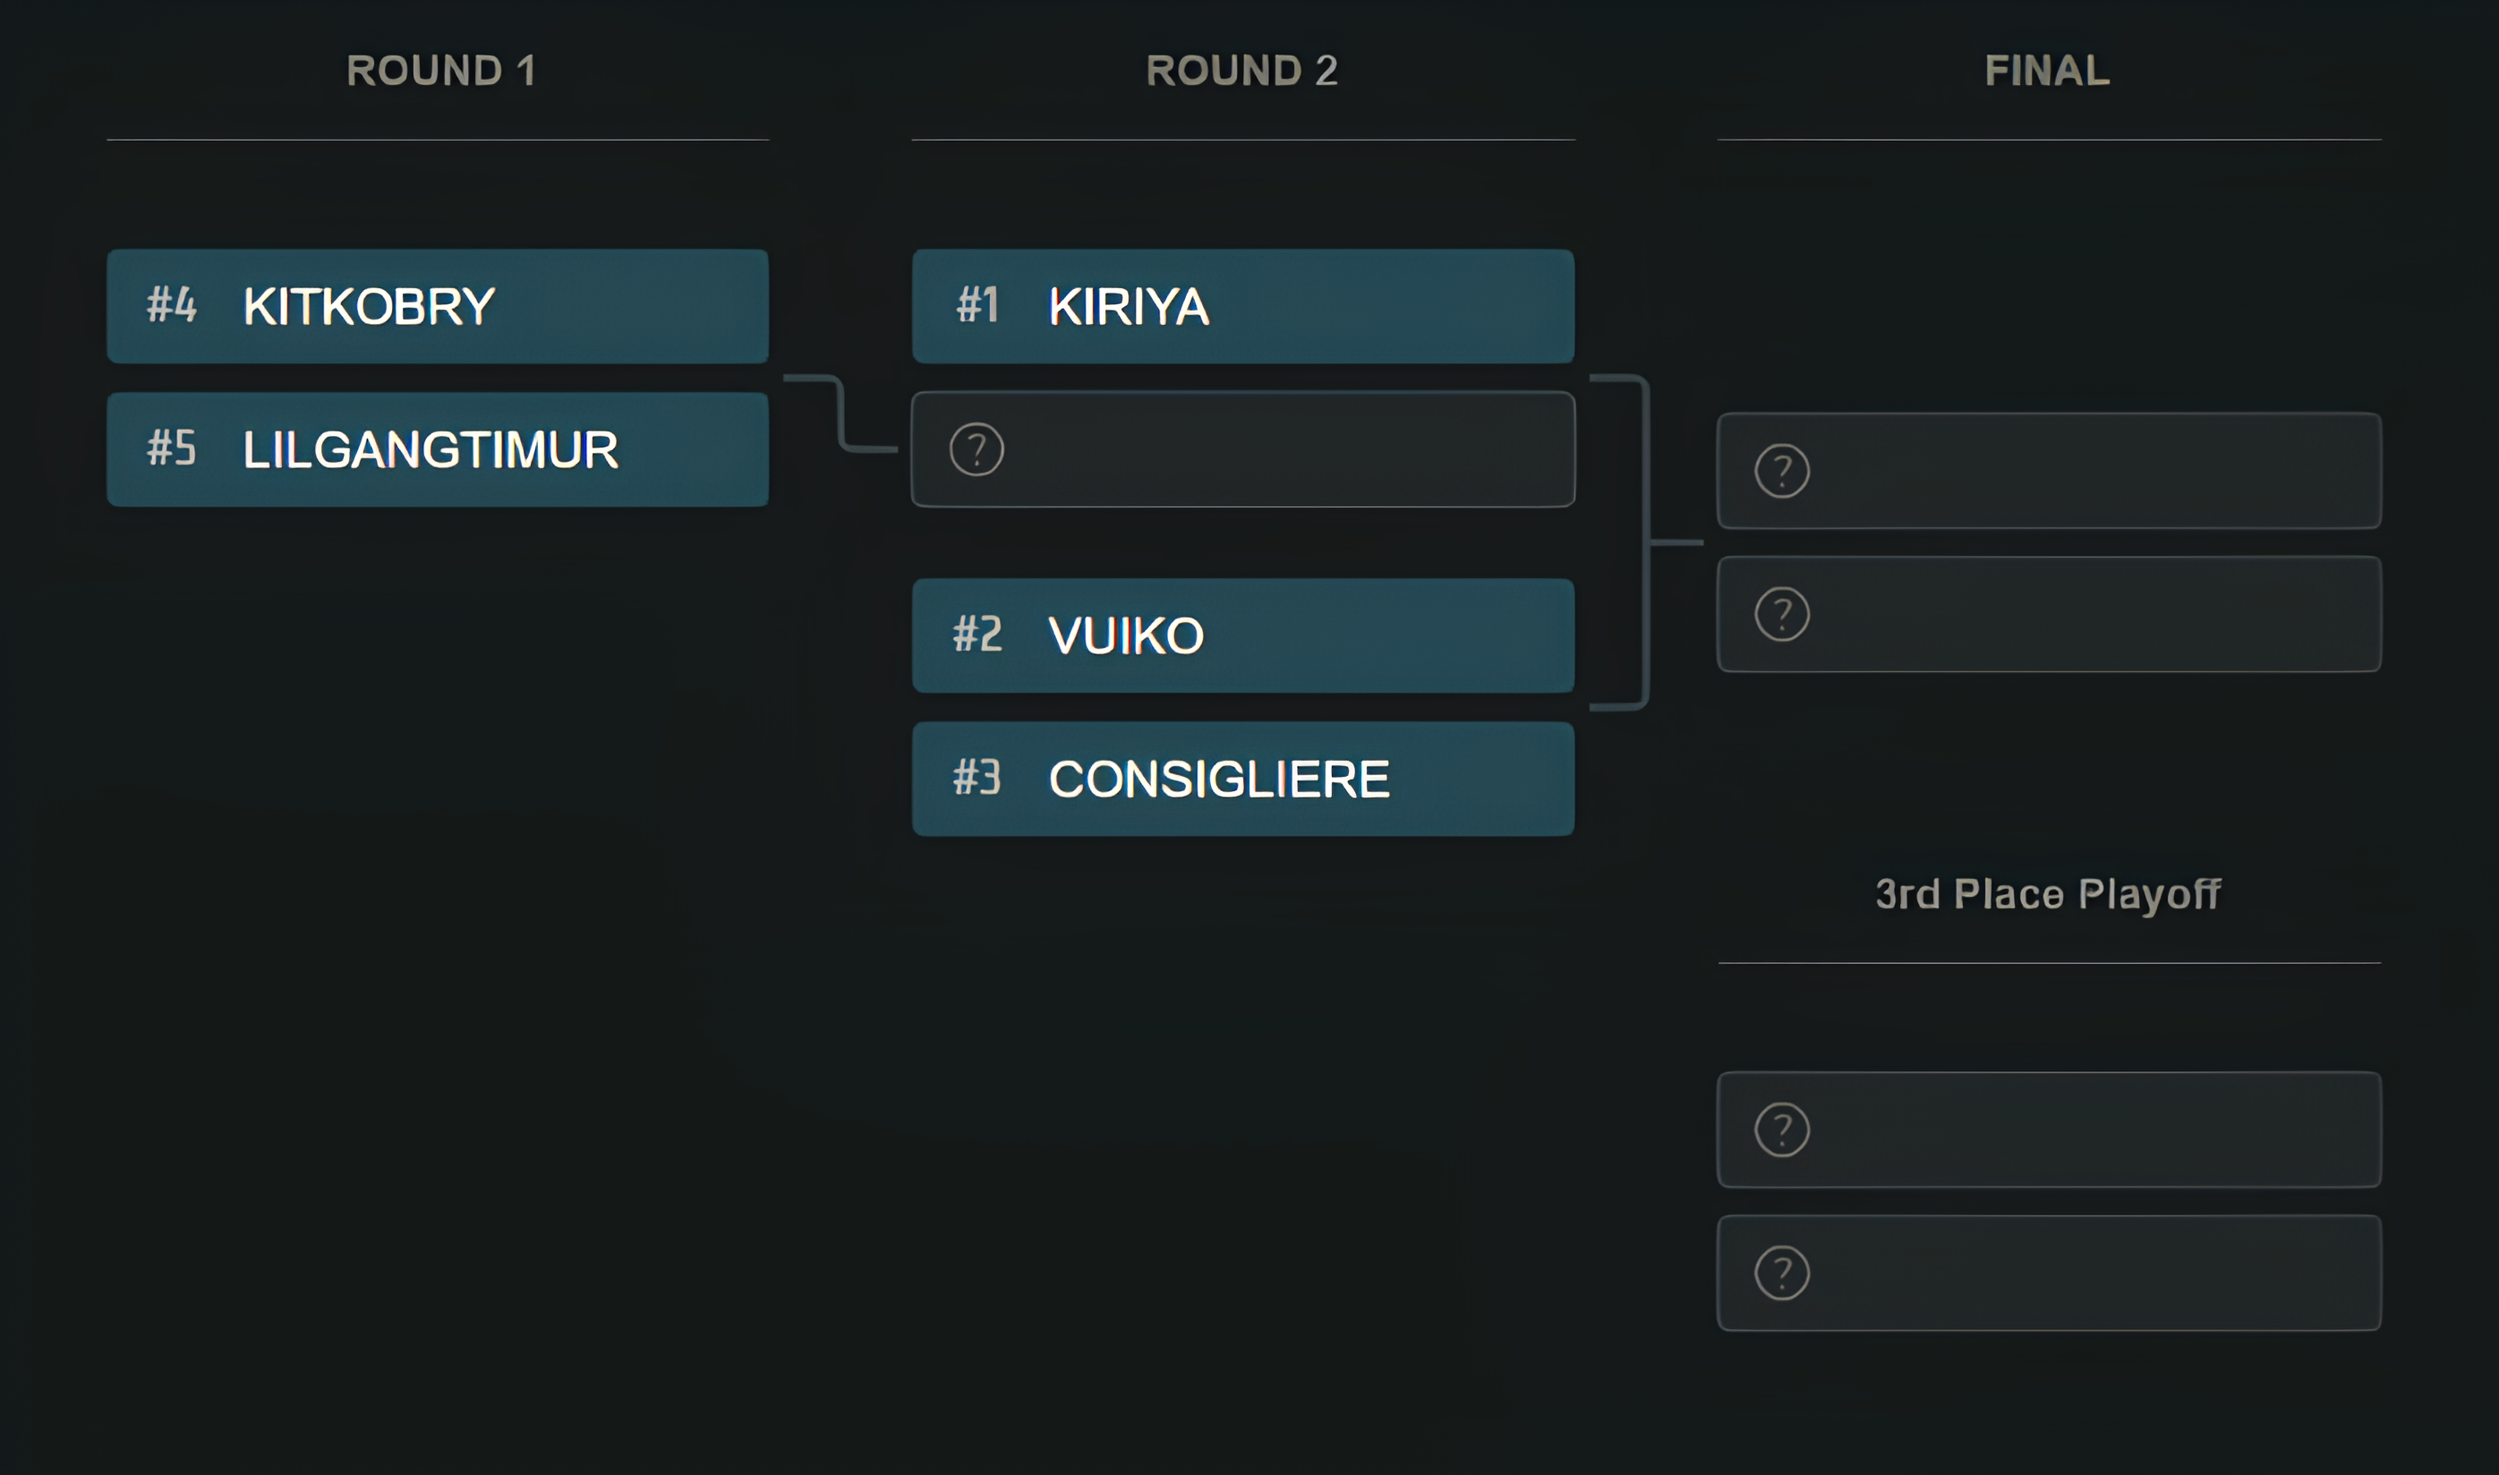
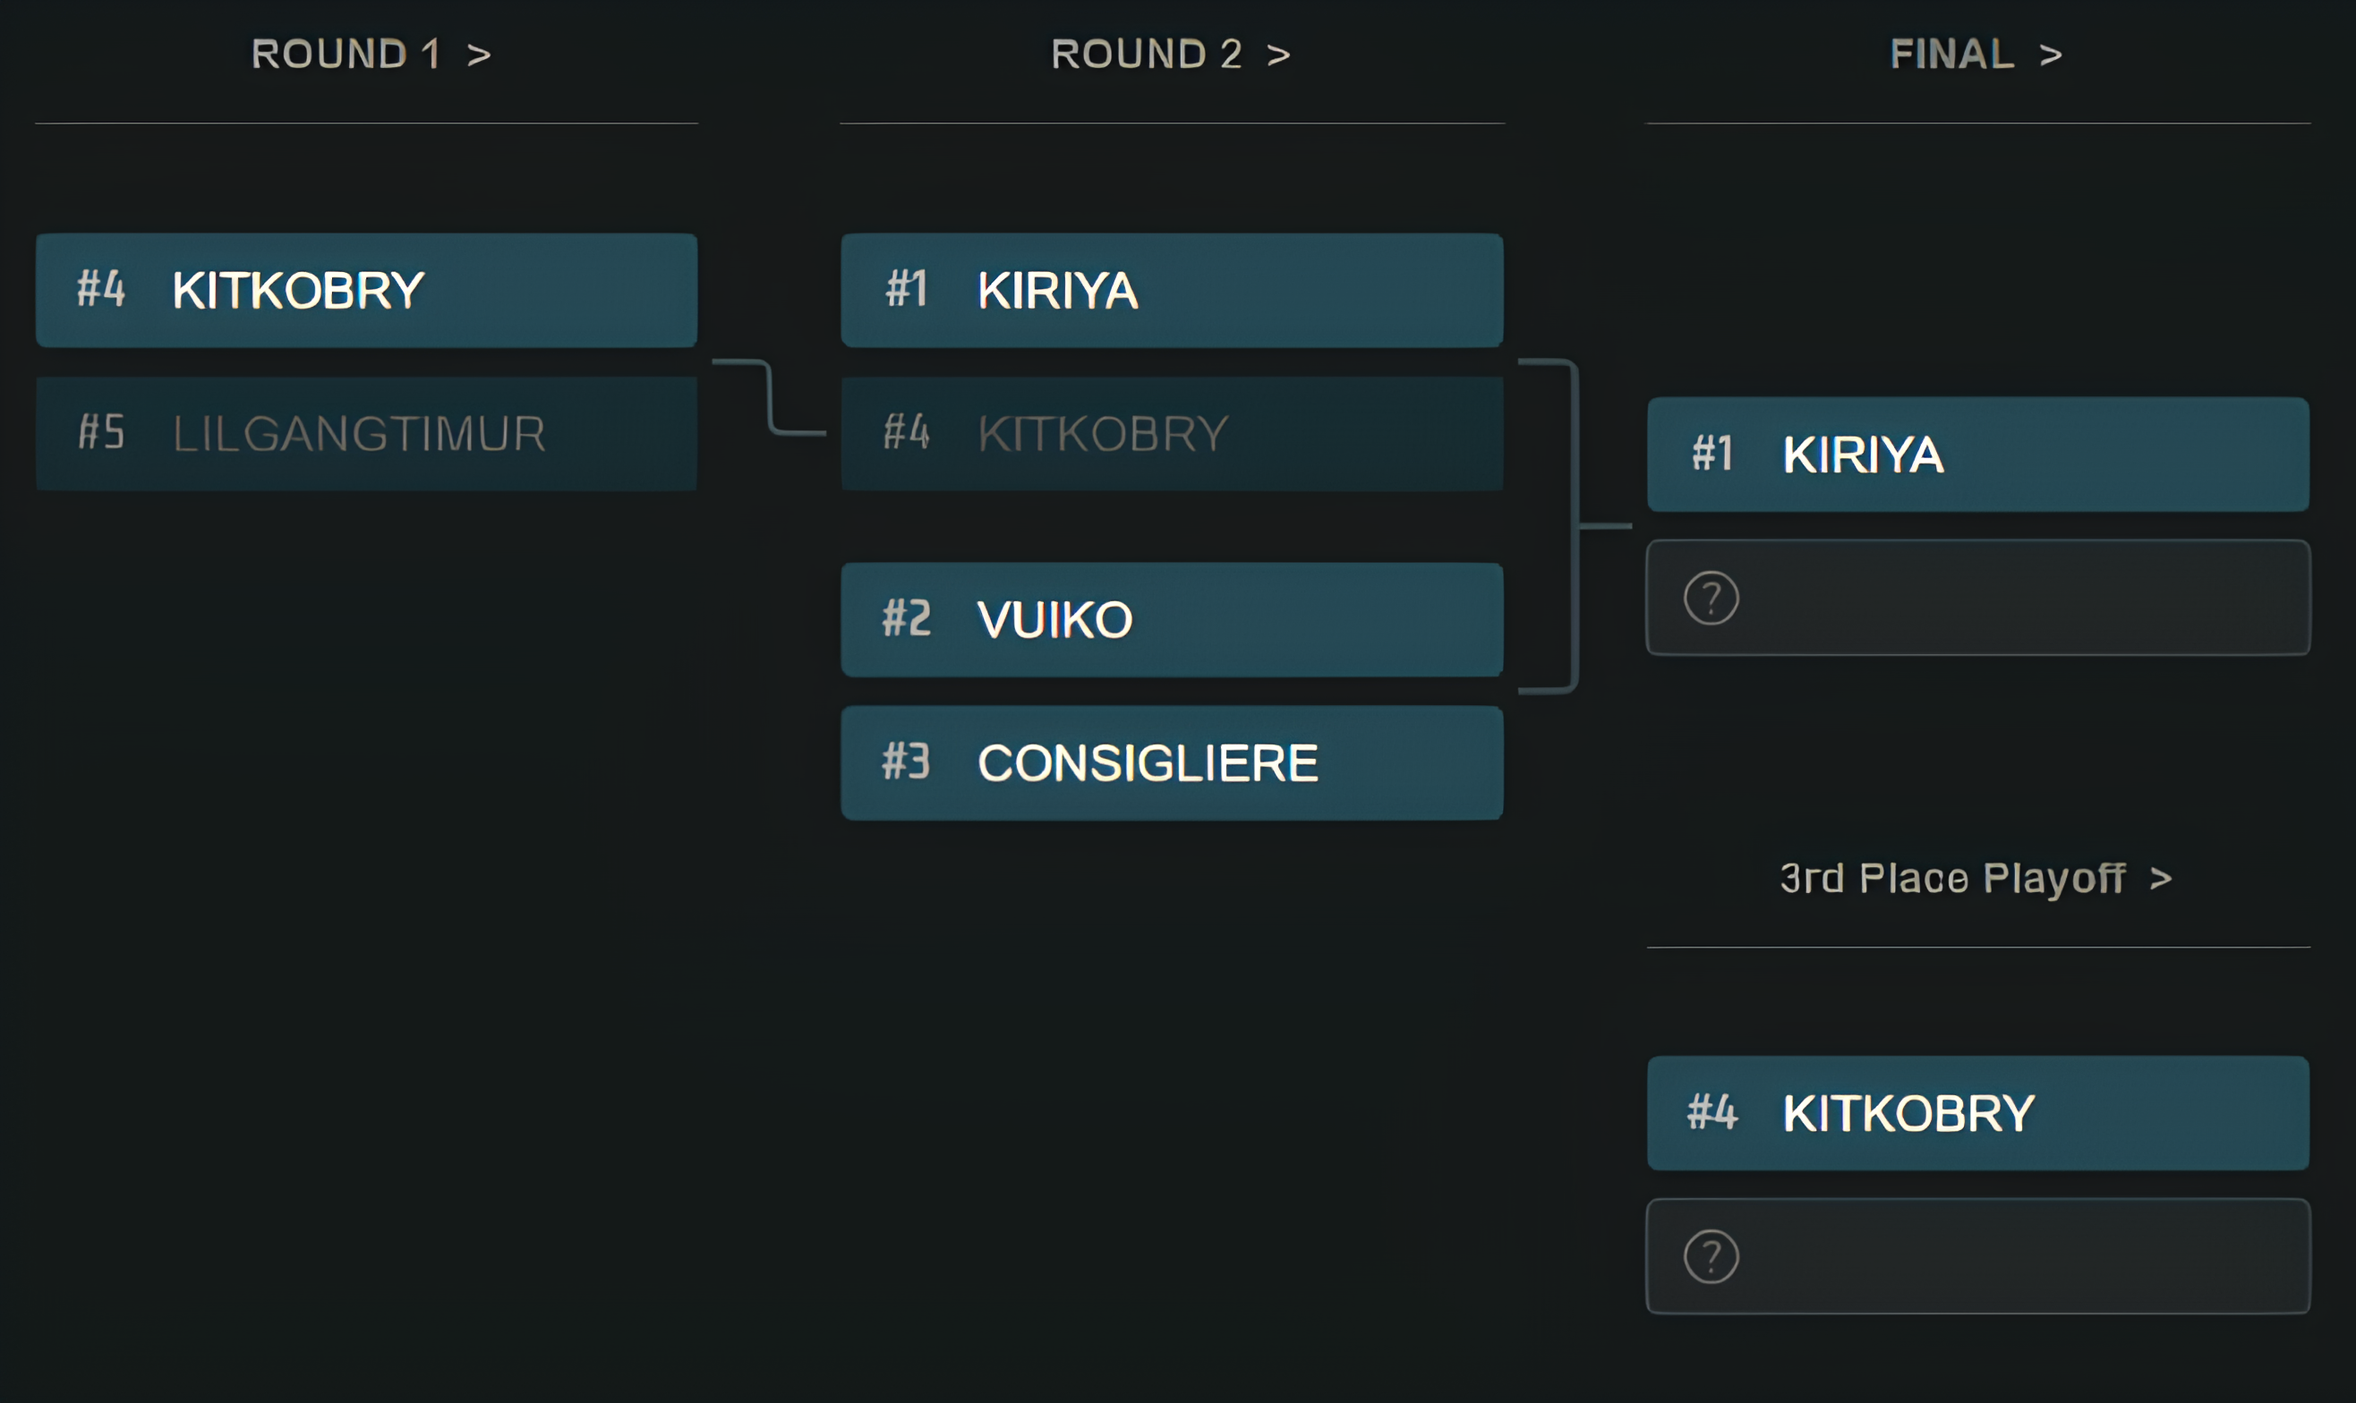
content updated

diff --git a/ratings/ratings.html b/ratings/ratings.html
@@ -195,7 +195,7 @@
                             </div>
 
                             <div class="ranking-points">
-                                1658 Оч.
+                                1750 Оч.
                             </div>
 
                         </div>
@@ -228,12 +228,12 @@
 
                                 <div class="detail-card">
                                     <strong>Виграно матчів</strong>
-                                    <p>150 Оч.</p>
+                                    <p>200 Оч.</p>
                                 </div>
 
                                 <div class="detail-card">
                                     <strong>K/D/A</strong>
-                                    <p>208 Оч.</p>
+                                    <p>250 Оч.</p>
                                 </div>
 
                                 <div class="detail-card">
@@ -267,7 +267,7 @@
                             </div>
 
                             <div class="ranking-points">
-                                1470 Оч.
+                                1499 Оч.
                             </div>
 
                         </div>
@@ -300,12 +300,12 @@
 
                                 <div class="detail-card">
                                     <strong>Виграно матчів</strong>
-                                    <p>150 Оч.</p>
+                                    <p>200 Оч.</p>
                                 </div>
 
                                 <div class="detail-card">
                                     <strong>K/D/A</strong>
-                                    <p>120 Оч.</p>
+                                    <p>99 Оч.</p>
                                 </div>
 
                                 <div class="detail-card">
@@ -625,7 +625,7 @@
                             </div>
 
                             <div class="ranking-points">
-                                237 Оч.
+                                226 Оч.
                             </div>
 
                         </div>
@@ -663,7 +663,7 @@
 
                                 <div class="detail-card">
                                     <strong>K/D/A</strong>
-                                    <p>87 Оч.</p>
+                                    <p>76 Оч.</p>
                                 </div>
 
                                 <div class="detail-card">

diff --git a/index.html b/index.html
@@ -135,6 +135,15 @@
 
                     <div class="news-content">
 
+                        <h3>06.07.2026</h3>
+
+                        <p>Перший етап плей-оффу закінчився</p>
+
+                        <p>Четверть фінал та перший півфінал мінору вже позаду, вітаємо нашого фіналіста, Kiriya.</p>
+
+                        <p>Лілгангтімур - "ааааааааааааааа.... чвертьфінал це піздєц, еее півфінал... півфніал... це 
+                            як.. ммм.. поняв як вишенька на торті, але вже зіпсована і червива вся, оце воно"</p>
+
                         <h3>01.07.2026</h3>
 
                         <p>Етап Швейцарської сітки Абсолюту завершився!</p>

diff --git a/players/kitkobry.html b/players/kitkobry.html
@@ -87,11 +87,11 @@
 
                     <p><strong>MVP:</strong> 1</p>
 
-                    <p><strong>Виграно матчів:</strong> 3</p>
+                    <p><strong>Виграно матчів:</strong> 4</p>
 
-                    <p><strong>Програно матчів:</strong> 2</p>
+                    <p><strong>Програно матчів:</strong> 3</p>
 
-                    <p><strong>K/D/A:</strong> 37/31/0</p>
+                    <p><strong>K/D/A:</strong> 51/52/0</p>
                     
                     <p><strong>Зароблено призових:</strong> 0 грн</p>
 

diff --git a/players/kiriya.html b/players/kiriya.html
@@ -87,11 +87,11 @@
 
                     <p><strong>MVP:</strong> 1</p>
 
-                    <p><strong>Виграно матчів:</strong> 3</p>
+                    <p><strong>Виграно матчів:</strong> 4</p>
 
                     <p><strong>Програно матчів:</strong> 0</p>
 
-                    <p><strong>K/D/A:</strong> 27/13/0</p>
+                    <p><strong>K/D/A:</strong> 45/18/0</p>
                     
                     <p><strong>Зароблено призових:</strong> 0 грн</p>
 

diff --git a/players/timur.html b/players/timur.html
@@ -89,9 +89,9 @@
 
                     <p><strong>Виграно матчів:</strong> 3</p>
 
-                    <p><strong>Програно матчів:</strong> 2</p>
+                    <p><strong>Програно матчів:</strong> 3</p>
 
-                    <p><strong>K/D/A:</strong> 31/36/0</p>
+                    <p><strong>K/D/A:</strong> 34/45/0</p>
                     
                     <p><strong>Зароблено призових:</strong> 0 грн</p>
 
